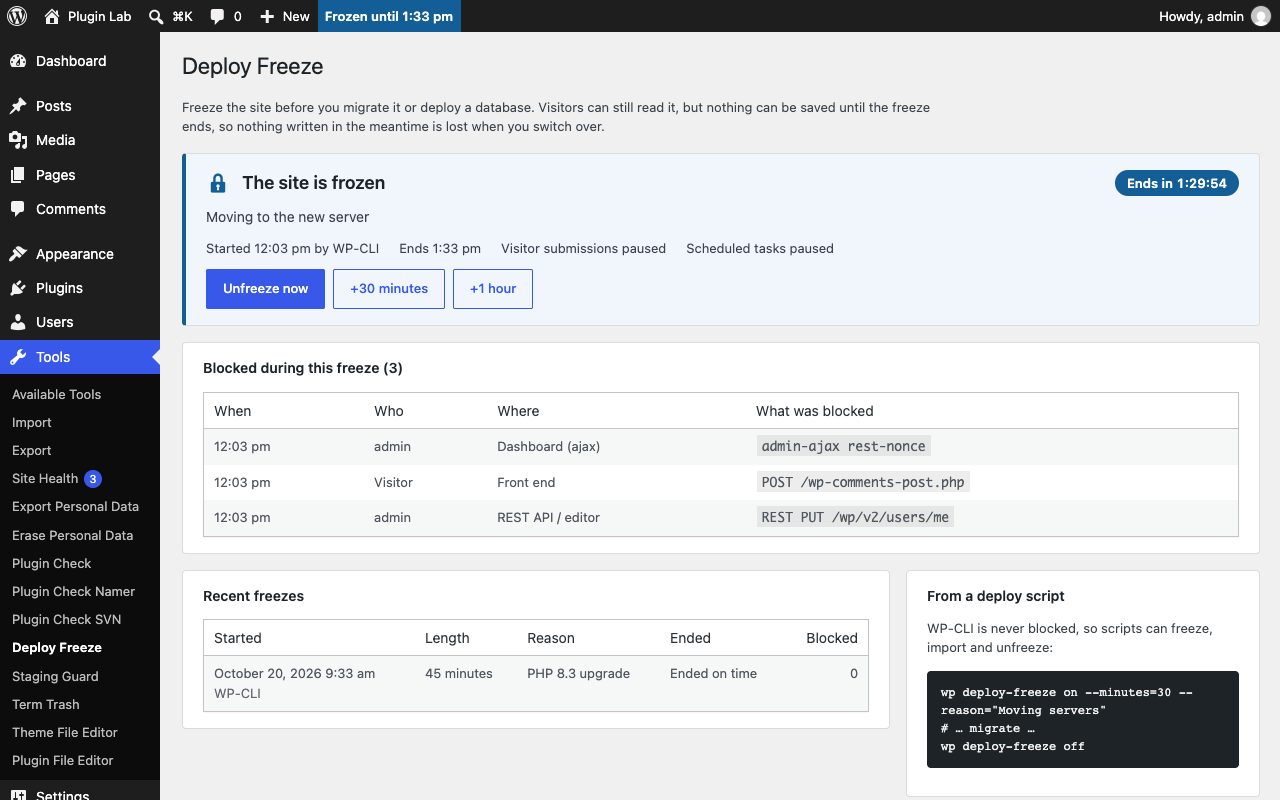
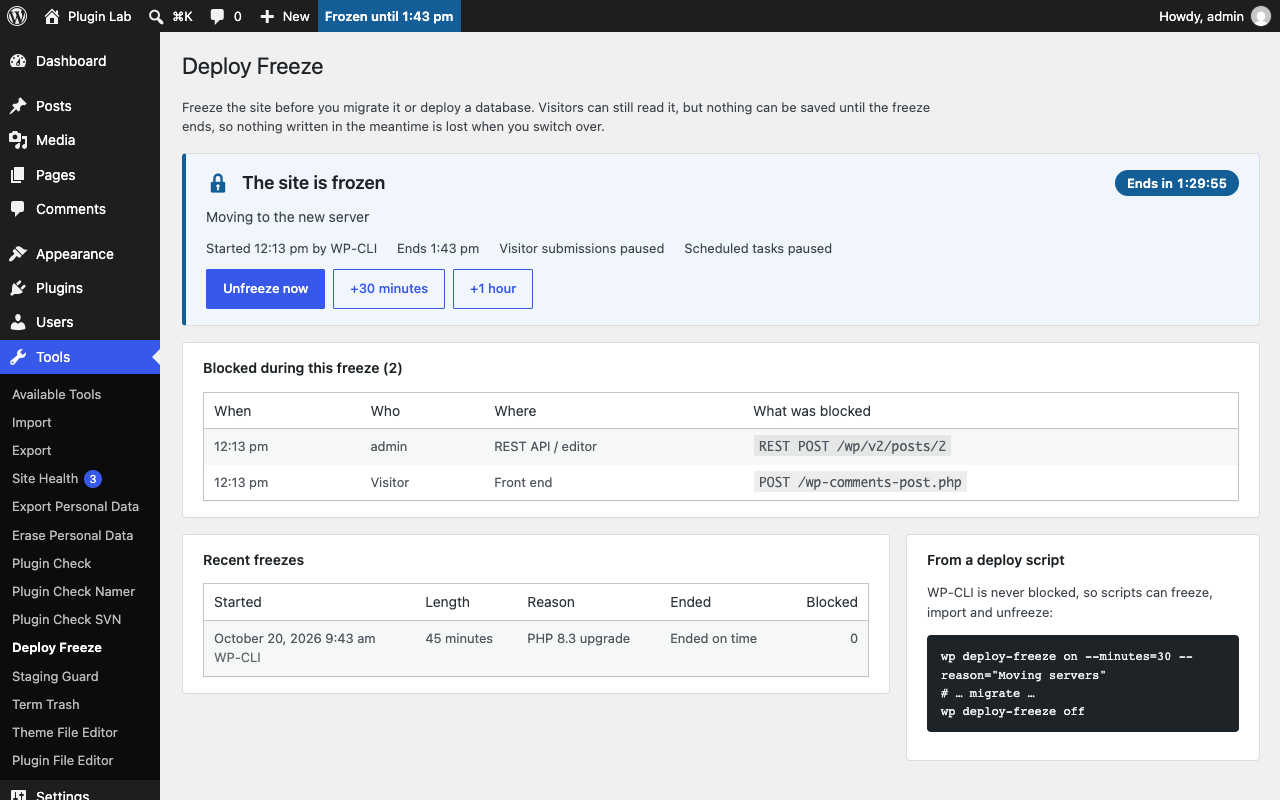
fix: keep editor housekeeping working during a freeze (#2)
## Problem

During a freeze, two requests the block editor makes on its own were
blocked and listed as blocked attempts, which hid the real ones:

- admin-ajax `rest-nonce`, which the editor calls to refresh its REST
nonce. Blocking it can break the editor during a long freeze.
- `PUT /wp/v2/users/me` with `persisted_preferences`, which is the
editor saving personal UI preferences.

## Change

- `rest-nonce` only reads, so it joins the read-only ajax list
- `/wp/v2/users/me` is allowed only when the request carries
`meta.persisted_preferences` and nothing else. Email, password and other
profile changes on the same endpoint stay blocked
- The screenshots are regenerated

## Verified

A new end-to-end test freezes the site, gets a nonce and saves
preferences (200). An email change is refused on its own and mixed in
with preferences (423), the email stays the same and two blocked
attempts are logged. 8 end-to-end tests pass.

diff --git a/tests/e2e/deploy-freeze.spec.js b/tests/e2e/deploy-freeze.spec.js
@@ -100,6 +100,25 @@ test.describe( 'Deploy Freeze', () => {
 		await expect( page.locator( '.df-blocked h2' ) ).toHaveText( 'Blocked during the last freeze (1)' );
 	} );
 
+	test( 'editor housekeeping keeps working, profile changes stay blocked', async ( { page, rest } ) => {
+		wp( 'deploy-freeze', 'on', '--minutes=10' );
+
+		const nonce = await page.request.get( '/wp-admin/admin-ajax.php?action=rest-nonce' );
+		expect( nonce.status() ).toBe( 200 );
+		expect( await nonce.text() ).toMatch( /^[0-9a-f]+$/ );
+
+		const preferences = await rest( 'PUT', '/wp/v2/users/me', { meta: { persisted_preferences: { 'core/edit-post': { welcomeGuide: false } } } } );
+		expect( preferences.status ).toBe( 200 );
+
+		const email = await rest( 'PUT', '/wp/v2/users/me', { email: 'changed@example.com' } );
+		expect( email.status ).toBe( 423 );
+		const mixed = await rest( 'PUT', '/wp/v2/users/me', { email: 'changed@example.com', meta: { persisted_preferences: {} } } );
+		expect( mixed.status ).toBe( 423 );
+
+		expect( wp( 'user', 'get', 'admin', '--field=user_email' ) ).toBe( 'admin@example.com' );
+		expect( wp( 'deploy-freeze', 'log', '--format=count' ) ).toBe( '2' );
+	} );
+
 	test( 'exempt users keep editing', async ( { page, rest } ) => {
 		await page.goto( PAGE );
 		await page.getByLabel( 'Let me keep editing' ).check();

diff --git a/src/Guards/RestGuard.php b/src/Guards/RestGuard.php
@@ -69,8 +69,38 @@ final class RestGuard implements Service {
 			}
 		}
 
+		if ( $this->only_saves_preferences( $request ) ) {
+			return $result;
+		}
+
 		$this->blocker->record( 'REST ' . $request->get_method() . ' ' . $request->get_route(), 'rest' );
 
 		return new \WP_Error( 'deploy_freeze', is_user_logged_in() ? $state->message() : $state->visitor_message(), array( 'status' => 423 ) );
+	}
+
+	/**
+	 * Whether the request only saves the user's editor preferences.
+	 *
+	 * The block editor stores its UI preferences (panels, welcome guide, view
+	 * options) in the persisted_preferences user meta through /wp/v2/users/me.
+	 * That is personal screen state, like closed meta boxes, so it is allowed.
+	 * Any other field on that endpoint, such as the email or password, is not.
+	 *
+	 * @param \WP_REST_Request $request Request.
+	 * @return bool
+	 */
+	private function only_saves_preferences( $request ): bool {
+		if ( '/wp/v2/users/me' !== $request->get_route() ) {
+			return false;
+		}
+
+		$params = $request->get_json_params();
+		if ( ! $params ) {
+			$params = $request->get_body_params();
+		}
+
+		return array( 'meta' ) === array_keys( $params )
+			&& is_array( $params['meta'] )
+			&& array( 'persisted_preferences' ) === array_keys( $params['meta'] );
 	}
 }

diff --git a/src/Guards/AdminGuard.php b/src/Guards/AdminGuard.php
@@ -25,6 +25,7 @@ final class AdminGuard implements Service {
 	 */
 	public const READ_ONLY_AJAX = array(
 		'heartbeat',
+		'rest-nonce',
 		'query-attachments',
 		'get-attachment',
 		'wp-link-ajax',
